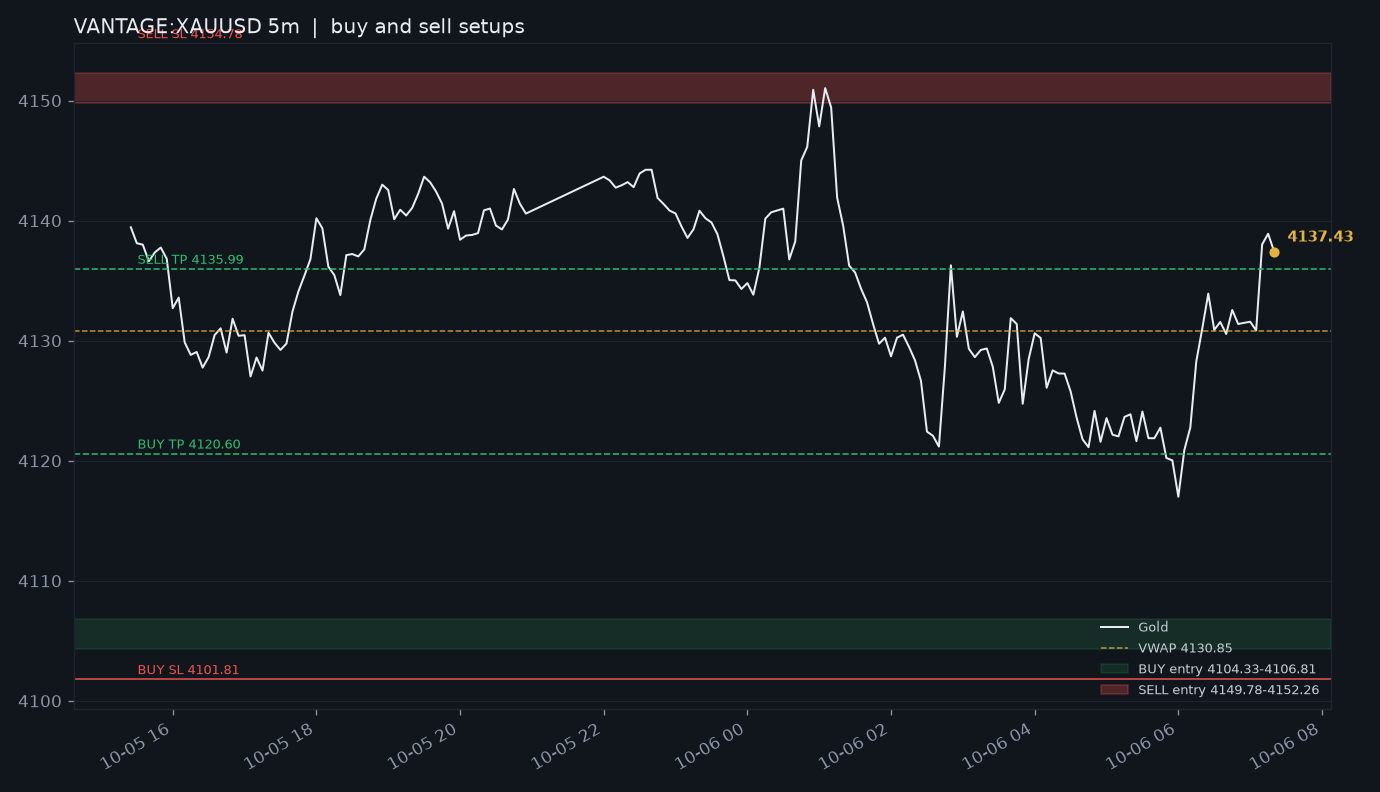
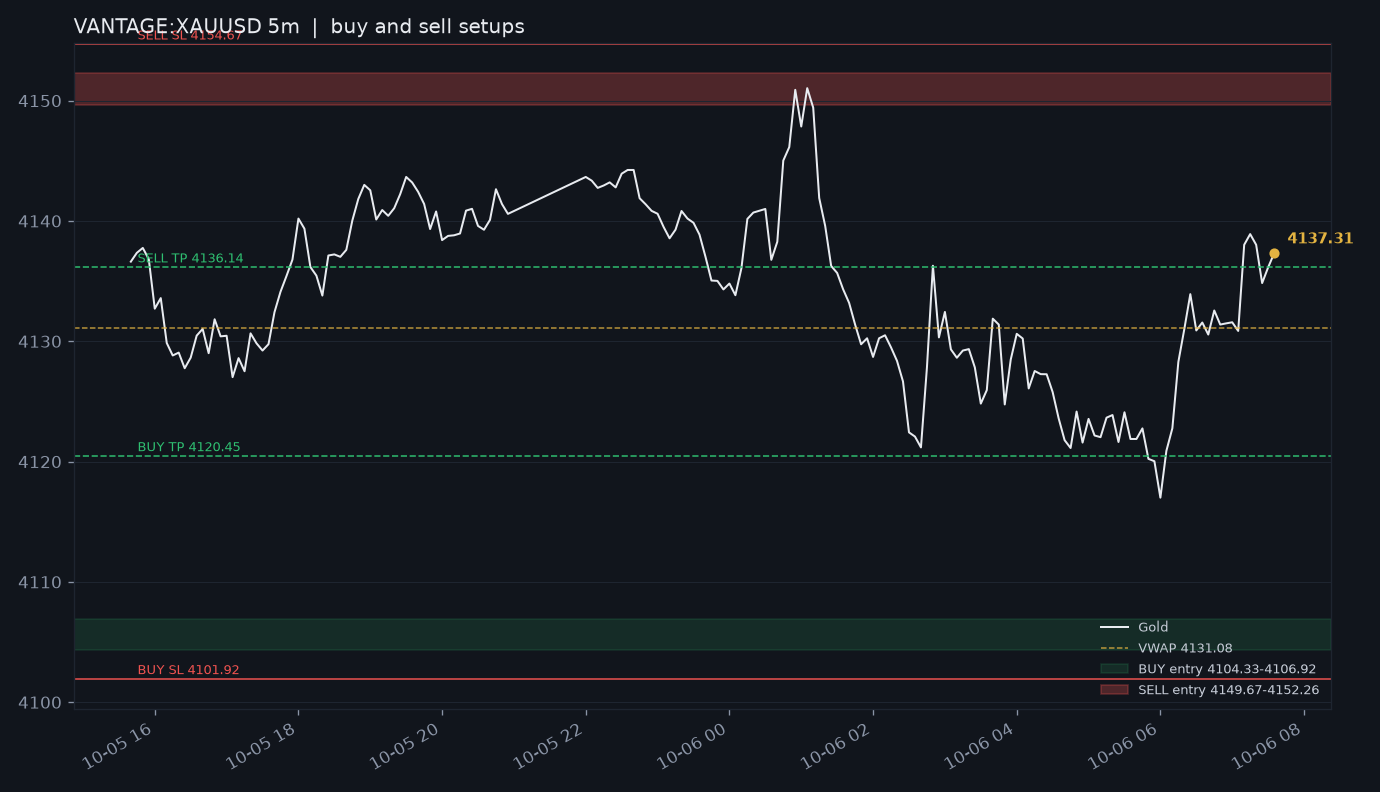
bot run 2026-10-06 07:51 UTC

diff --git a/docs/index.html b/docs/index.html
@@ -4,7 +4,7 @@
 <meta charset="utf-8">
 <meta name="viewport" content="width=device-width, initial-scale=1">
 <meta http-equiv="refresh" content="300">
-<title>Gold signal · 4137.43 · WAIT</title>
+<title>Gold signal · 4137.31 · WAIT</title>
 <style>
 :root { --bg:#0b0e13; --panel:#11151c; --line:#1e2530; --text:#e8ebf0; --muted:#8a94a6; --gold:#e3b341;
   --buy:#2fbf71; --sell:#ef5350; --warn:#f0a020; }
@@ -96,9 +96,9 @@ pre { white-space:pre-wrap; font:13px/1.55 ui-monospace, Consolas, monospace; co
   <div class="top">
     <div>
       <div class="brand">Gold intraday <small>VANTAGE:XAUUSD · alerts only</small></div>
-      <div class="price">4137.43</div>
+      <div class="price">4137.31</div>
     </div>
-    <div class="updated">Updated 2026-10-06 07:22 UTC<br>Re-analysed every 15 min · price checked every minute</div>
+    <div class="updated">Updated 2026-10-06 07:37 UTC<br>Re-analysed every 15 min · price checked every minute</div>
   </div>
 
   <section class="hero">
@@ -107,27 +107,27 @@ pre { white-space:pre-wrap; font:13px/1.55 ui-monospace, Consolas, monospace; co
       <div class="big">WAIT</div>
       <div class="line">No signal is valid right now. Both setups failed their latest check.</div>
       
-      <p class="stance">Strategy: wait. No side clears the 0.50 bar (best 0.33). Take an entry only if price reaches it.</p>
+      <p class="stance">Strategy: SELL is the trade (Trade with the dollar, confidence 58%).</p>
       
     </div>
     <div class="setups">
 <article class="setup sell dim">
   <header>
     <div class="side">SELL <small>XAUUSD</small></div>
-    <span class="tag tag-fav">Favored</span>
+    <span class="tag tag-ready">Strategy trade</span>
   </header>
-  <div class="check st-expired"><b>Expired</b><span>Signal is 120 minutes old without an entry. Waiting for a fresh one.</span><small>checked 07:22 UTC</small></div>
+  <div class="check st-expired"><b>Expired</b><span>Signal is 120 minutes old without an entry. Waiting for a fresh one.</span><small>checked 07:37 UTC</small></div>
   <div class="levels">
-    <div class="lvl"><span>Entry</span><b>4149.78 – 4152.26</b></div>
-    <div class="lvl"><span>Stop loss</span><b class="sl">4154.78</b></div>
-    <div class="lvl"><span>TP1</span><b class="tp">4135.99</b></div>
+    <div class="lvl"><span>Entry</span><b>4149.67 – 4152.26</b></div>
+    <div class="lvl"><span>Stop loss</span><b class="sl">4154.67</b></div>
+    <div class="lvl"><span>TP1</span><b class="tp">4136.14</b></div>
     
   </div>
   <footer>
     <div><span>R:R</span><b>1:4.0</b></div>
     <div><span>Risk</span><b>$5.00</b></div>
     <div><span>Size</span><b>1 oz</b></div>
-    <div class="meter" title="Strategy score 0.33"><i style="width:33%"></i><em>score 0.33</em></div>
+    <div class="meter" title="Strategy score 0.58"><i style="width:58%"></i><em>score 0.58</em></div>
   </footer>
   <p class="why">Trade with the dollar</p>
 </article>
@@ -136,11 +136,11 @@ pre { white-space:pre-wrap; font:13px/1.55 ui-monospace, Consolas, monospace; co
     <div class="side">BUY <small>XAUUSD</small></div>
     <span class="tag">Other side</span>
   </header>
-  <div class="check st-expired"><b>Expired</b><span>Signal is 120 minutes old without an entry. Waiting for a fresh one.</span><small>checked 07:22 UTC</small></div>
+  <div class="check st-expired"><b>Expired</b><span>Signal is 120 minutes old without an entry. Waiting for a fresh one.</span><small>checked 07:37 UTC</small></div>
   <div class="levels">
-    <div class="lvl"><span>Entry</span><b>4104.33 – 4106.81</b></div>
-    <div class="lvl"><span>Stop loss</span><b class="sl">4101.81</b></div>
-    <div class="lvl"><span>TP1</span><b class="tp">4120.60</b></div>
+    <div class="lvl"><span>Entry</span><b>4104.33 – 4106.92</b></div>
+    <div class="lvl"><span>Stop loss</span><b class="sl">4101.92</b></div>
+    <div class="lvl"><span>TP1</span><b class="tp">4120.45</b></div>
     
   </div>
   <footer>
@@ -154,7 +154,7 @@ pre { white-space:pre-wrap; font:13px/1.55 ui-monospace, Consolas, monospace; co
   </section>
 
   <h2>Market data</h2>
-  <div class="tiles"><div class="tile "><span>Gold</span><b>4137.43</b><small>VWAP 4130.85</small></div><div class="tile "><span>Day range</span><b>4104.33 – 4152.26</b><small><i class="range"><i style="left:69%"></i></i></small></div><div class="tile "><span>Trend</span><b>sideways / down</b><small>5-minute / 1-hour</small></div><div class="tile "><span>ATR (5m)</span><b>4.57</b><small>london session</small></div><div class="tile down"><span>Dollar index</span><b>102.25</b><small>+0.09% today · corr -0.28</small></div><div class="tile down"><span>WTI oil</span><b>88.32</b><small>-1.00% today · corr -0.20</small></div><div class="tile down"><span>News: dollar</span><b>+1.00</b><small>hawkish, gold headwind</small></div><div class="tile up"><span>News: oil</span><b>+0.05</b><small>neutral · fresh shock</small></div></div>
+  <div class="tiles"><div class="tile "><span>Gold</span><b>4137.31</b><small>VWAP 4131.08</small></div><div class="tile "><span>Day range</span><b>4104.33 – 4152.26</b><small><i class="range"><i style="left:69%"></i></i></small></div><div class="tile "><span>Trend</span><b>sideways / down</b><small>5-minute / 1-hour</small></div><div class="tile "><span>ATR (5m)</span><b>4.38</b><small>london session</small></div><div class="tile down"><span>Dollar index</span><b>102.18</b><small>+0.02% today · corr -0.36</small></div><div class="tile down"><span>WTI oil</span><b>88.32</b><small>-1.00% today · corr -0.20</small></div><div class="tile down"><span>News: dollar</span><b>+1.00</b><small>hawkish, gold headwind</small></div><div class="tile up"><span>News: oil</span><b>+0.05</b><small>neutral · fresh shock</small></div></div>
 
   <h2>Charts</h2>
   <div class="charts">
@@ -168,7 +168,7 @@ pre { white-space:pre-wrap; font:13px/1.55 ui-monospace, Consolas, monospace; co
     "backgroundColor": "#11151c", "gridColor": "rgba(255,255,255,0.04)", "container_id": "tv_gold"});
   </script>
 </div></div>
-    <div class="panel"><h3>Strategy levels · green band = buy entry, red band = sell entry, solid red = stop, dashed green = target</h3><img src="chart.png?v=1791271380" alt="Strategy levels on the gold chart"></div>
+    <div class="panel"><h3>Strategy levels · green band = buy entry, red band = sell entry, solid red = stop, dashed green = target</h3><img src="chart.png?v=1791272262" alt="Strategy levels on the gold chart"></div>
   </div>
 
   <div class="grid2">
@@ -185,7 +185,7 @@ pre { white-space:pre-wrap; font:13px/1.55 ui-monospace, Consolas, monospace; co
   <div class="grid2">
     <div>
       <h2>How each approach scores now</h2>
-      <div class="panel"><ul class="scores"><li><span>Trade with the dollar</span><i class="bar"><i style="width:33%"></i></i><b>0.33</b><small>short</small></li><li><span>Stand aside</span><i class="bar"><i style="width:25%"></i></i><b>0.25</b><small>flat</small></li><li><span>Trade the oil shock</span><i class="bar"><i style="width:12%"></i></i><b>0.12</b><small>flat</small></li><li><span>Trade with the intraday trend</span><i class="bar"><i style="width:10%"></i></i><b>0.10</b><small>flat</small></li><li><span>Fade the session range</span><i class="bar"><i style="width:10%"></i></i><b>0.10</b><small>flat</small></li></ul></div>
+      <div class="panel"><ul class="scores"><li><span>Trade with the dollar</span><i class="bar"><i style="width:58%"></i></i><b>0.58</b><small>short</small></li><li><span>Stand aside</span><i class="bar"><i style="width:30%"></i></i><b>0.30</b><small>flat</small></li><li><span>Trade the oil shock</span><i class="bar"><i style="width:12%"></i></i><b>0.12</b><small>flat</small></li><li><span>Trade with the intraday trend</span><i class="bar"><i style="width:10%"></i></i><b>0.10</b><small>flat</small></li><li><span>Fade the session range</span><i class="bar"><i style="width:10%"></i></i><b>0.10</b><small>flat</small></li></ul></div>
     </div>
     <div>
       <h2>Track record</h2>
@@ -197,35 +197,37 @@ pre { white-space:pre-wrap; font:13px/1.55 ui-monospace, Consolas, monospace; co
   <details>
     <summary>Full analysis</summary>
     <pre>GOLD INTRADAY BRIEF
-2026-10-06 07:22 UTC
+2026-10-06 07:37 UTC
 Gold: VANTAGE:XAUUSD    Dollar index: DX-Y.NYB    WTI: CL=F
 This plan is rebuilt on every run. The journal changes which approach is trusted. It does not freeze a strategy.
 Gold prices are the VANTAGE:XAUUSD chart on TradingView (https://www.tradingview.com/chart/?symbol=VANTAGE%3AXAUUSD). That is the Vantage XAUUSD gold CFD, so these levels match that chart rather than COMEX futures.
 
 PLAN
-Stand aside  |  FLAT  |  confidence 0.30  |  id ec6cb211
-No approach cleared the bar, so the plan is to stand aside.
-The closest idea was Trade with the dollar (short), adjusted score 0.33, below the 0.50 line required for a trade. Standing aside is the plan until the chart, the dollar, oil, or the journal changes.
-No position at the current price.
+Trade with the dollar  |  SHORT  |  confidence 0.58  |  id 14cfe2ae
+Chosen because it cleared the bar and led the other approaches.
+DXY is flat (+0.02% this UTC day). Recent 5-minute returns correlate -0.36 with the dollar. Dollar headlines score +1.00. Oil is down and is not the reason for the trade. The plan is to sell rallies in 4149.67 to 4152.26. The idea is void through 4154.67, and also if the dollar move itself fades. The entry zone was tightened toward the invalidation so the smallest size fits the risk limit.
 SELL XAUUSD
-Entry: 4149.78 - 4152.26
-SL: 4154.78
-TP1: 4135.99
-This is the order only if price trades into the entry. Do not enter at the current price.
+Entry: 4149.67 - 4152.26
+SL: 4154.67
+TP1: 4136.14
+Normal tier: risk budget 5.00 USD, targets capped at 1:4.
+Size 1 units (0.01 lot of XAUUSD at 1 unit = 1 oz). Loss at invalidation from the worst fill in the zone: 5.00 USD (5.0% of 100 USD). Stop distance 5.00. This is not an order.
+Price is 4137.31, outside the entry zone. Wait for that zone. This is not a market order.
+There is not enough graded history for this kind of session. Treat the plan as a draft.
 
 WHAT WOULD CHANGE IT
 - This plan is graded after 120 minutes, or sooner if price hits the invalidation or the target.
 - Running the brief again before that replaces this plan and does not grade it.
-- Run a new brief if price moves back toward the middle of the day range. Do not trade this extreme only because the dollar has already moved.
-- If the dollar gives its session move back and is flat again, that dollar idea is finished for this session.
+- Price through 4154.67 kills the idea.
+- If the dollar index gives its session move back and is flat again, cancel the idea even if the stop is intact.
 - A headline that flips the dollar or oil story means you run a new brief before entering.
 
 CHART
-Gold 4137.43 in London (07:00-12:00 UTC). 5-minute structure is sideways. 1-hour structure is down.
-UTC-day range 4104.33 to 4152.26. Price is 69% of the way up that range, above VWAP 4130.85. ATR 4.57. Short-range volatility over longer-range volatility is 1.18.
+Gold 4137.31 in London (07:00-12:00 UTC). 5-minute structure is sideways. 1-hour structure is down.
+UTC-day range 4104.33 to 4152.26. Price is 69% of the way up that range, above VWAP 4131.08. ATR 4.38. Short-range volatility over longer-range volatility is 1.24.
 
 DOLLAR
-DXY 102.25 (+0.09% this UTC day, up). Correlation of recent 5-minute returns with gold is -0.28. Gold is responding the usual way to a firmer dollar.
+DXY 102.18 (+0.02% this UTC day, flat). Correlation of recent 5-minute returns with gold is -0.36. The dollar is quiet, so it is not the driver right now.
 
 OIL
 WTI 88.32 (-1.00% this UTC day, down). Correlation of recent 5-minute returns with gold is -0.20. Falling oil is not automatically a gold short. It matters when gold is actually following it.
@@ -242,17 +244,17 @@ Oil headlines:
 
 WHY THIS APPROACH
 Adjusted score = how the setup looks now, times the journal. A trade needs at least 0.50. Journal half-life is 5 days, so a lesson from a month ago barely counts.
-  Trade with the dollar            0.33 x 1.00 = 0.33  short
-&gt; Stand aside                      0.56 x 0.45 = 0.25  flat
+&gt; Trade with the dollar            0.58 x 1.00 = 0.58  short
+  Stand aside                      0.66 x 0.45 = 0.30  flat
   Trade the oil shock              0.12 x 1.00 = 0.12  flat
   Trade with the intraday trend    0.10 x 1.00 = 0.10  flat
   Fade the session range           0.10 x 1.00 = 0.10  flat
-0 wins, 0 losses, 1 scratches on similar days (effective weight 0.6). Trust multiplier 1.00.
-0 wins, 2 losses, 0 scratches on similar days (effective weight 1.5). Trust multiplier 0.45.
+0 wins, 2 losses, 0 scratches on similar days (effective weight 1.6). Trust multiplier 0.45.
 No similar graded sessions yet. This choice is provisional.
 
 GRADED THIS RUN
-8bf9c10b stand aside -&gt; loss (-1.00R)
+Nothing finished its stop, target, or time window on this run.
+Replaced 1 unfinished plan(s) without grading them. A quick refresh does not teach the journal.
 
 The next run reads the chart, the dollar, and oil again from scratch. Only the graded results carry forward, and they decay.
 
